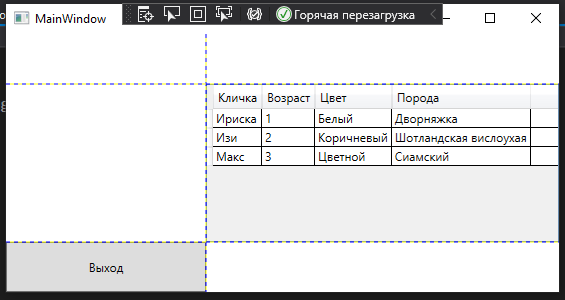
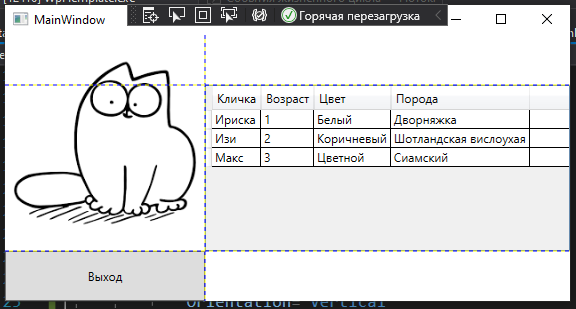
добавил логтип

diff --git a/articles/wpf_template.md b/articles/wpf_template.md
@@ -36,6 +36,11 @@
         <ColumnDefinition/>
     </Grid.ColumnDefinitions>
 
+    <!-- типа логотип компании -->
+    <Image 
+            Source="./Img/simon.png" 
+            Grid.RowSpan="2"/>
+
     <StackPanel 
         Orientation="Vertical"
         Grid.RowSpan="3"
